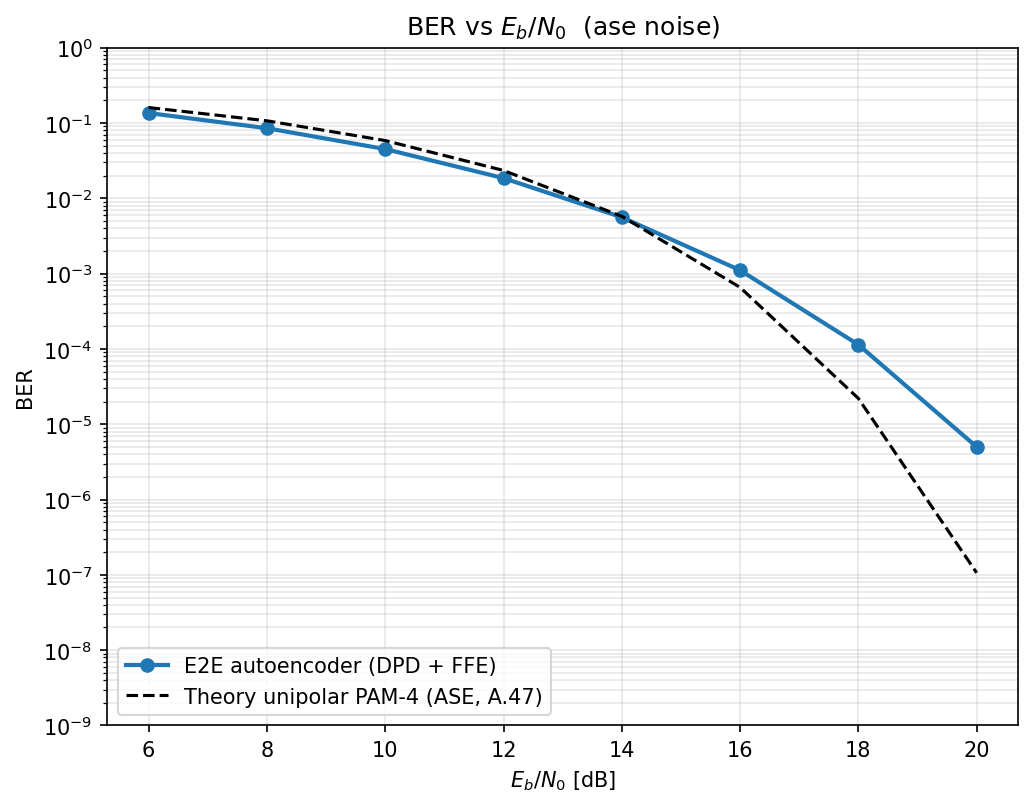
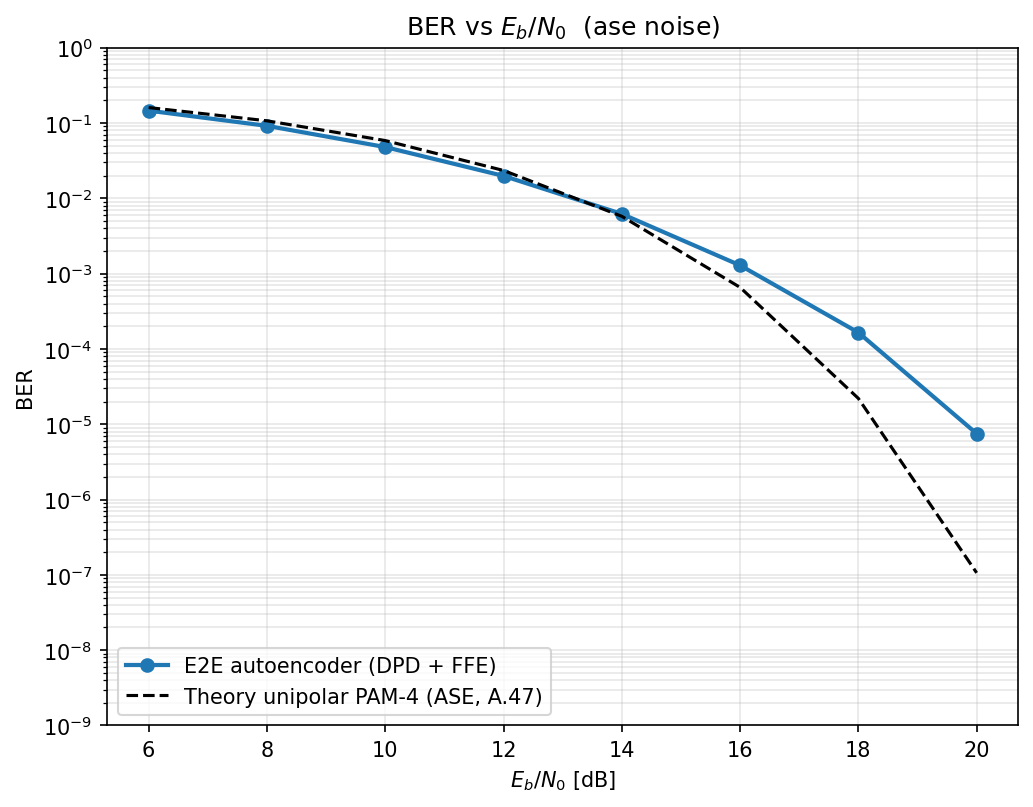
ASE default -> realistic WSS optical filter (the group's actual filter)
Replaced the idealized matched optical filter with the realistic one the group uses in MATLAB
(trans_func.m 'WSS', Finisar WaveShaper, Pulikkaseril 2011): erf-based flat-top, B = 1.6*Rs
(32 GHz passband) and OTF 3-dB = 18 GHz. Added channel filter types "wss" and "supergaussian"
(super-Gaussian, the commented-out 'G' alternative); optical_filter_type "auto" now -> "wss" for
ase, "none" for thermal. "matched" stays available as the A.47 ideal bound.

Result: the realistic WSS is only ~0.5 dB from the matched ideal and ~1 dB from thermal
(7.5e-6 vs 2.5e-6 vs 1.25e-6 @ 20 dB) -- much better than the super-Gaussian, because the WSS is
a tighter flat-top that cuts more ASE while the DPD pre-compensates the in-band clipping. So
"optical ~= thermal" holds even with the real filter. Regenerated the ase checkpoint + figures.

diff --git a/functions/channel.py b/functions/channel.py
@@ -26,6 +26,8 @@ import torch
 import torch.nn as nn
 import torch.nn.functional as F
 
+from scipy.special import erf
+
 from pulse_shaping import root_raised_cosine
 
 
@@ -39,6 +41,43 @@ def lowpass_fir(cutoff_hz, sample_rate, num_taps):
     ideal = normalized_cutoff * np.sinc(normalized_cutoff * n)
     window = np.hamming(num_taps)
     taps = ideal * window
+    taps = taps / np.sum(taps)
+    return taps.astype(np.float32)
+
+
+def supergaussian_fir(bw_3db_hz, order, sample_rate, num_taps):
+    """Super-Gaussian low-pass FIR: H(f) = exp(-0.5*ln2*(f/bw)^(2*order)) (the realistic optical
+    filter shape, as in trans_func.m). order=1 -> Gaussian; high order -> flat-top toward brick-wall.
+    bw_3db_hz is the 3-dB (power) bandwidth. Built by frequency sampling + IFFT, windowed."""
+    if num_taps % 2 == 0:
+        num_taps = num_taps + 1
+    n_fft = 8192
+    freq = np.fft.fftfreq(n_fft, d=1.0 / sample_rate)
+    transfer = np.exp(-0.5 * np.log(2) * (np.abs(freq) / bw_3db_hz) ** (2 * order))
+    impulse = np.fft.fftshift(np.fft.ifft(transfer).real)
+    center = n_fft // 2
+    half = num_taps // 2
+    taps = impulse[center - half:center + half + 1] * np.hamming(num_taps)
+    taps = taps / np.sum(taps)
+    return taps.astype(np.float32)
+
+
+def wss_fir(bandpass_hz, otf_bw_hz, sample_rate, num_taps):
+    """Finisar WaveShaper (WSS) optical bandpass, as in trans_func.m 'WSS' (Pulikkaseril, Opt.Exp.
+    2011): H(f) = 0.5*[erf((B/2 - f)/s) - erf((-B/2 - f)/s)], s = BWotf/(2*sqrt(ln2)). A flat-top
+    passband of full width bandpass_hz with Gaussian-smoothed edges set by the OTF 3-dB otf_bw_hz.
+    Built by frequency sampling + IFFT, windowed."""
+    if num_taps % 2 == 0:
+        num_taps = num_taps + 1
+    n_fft = 8192
+    freq = np.fft.fftfreq(n_fft, d=1.0 / sample_rate)
+    sigma = otf_bw_hz / (2 * np.sqrt(np.log(2)))
+    half_bp = 0.5 * bandpass_hz
+    transfer = 0.5 * (erf((half_bp - freq) / sigma) - erf((-half_bp - freq) / sigma))
+    impulse = np.fft.fftshift(np.fft.ifft(transfer).real)
+    center = n_fft // 2
+    half = num_taps // 2
+    taps = impulse[center - half:center + half + 1] * np.hamming(num_taps)
     taps = taps / np.sum(taps)
     return taps.astype(np.float32)
 
@@ -76,19 +115,26 @@ class OpticalChannel(nn.Module):
 
         # optical bandpass before the PD (only meaningful for a preamplified/ASE receiver). In
         # baseband (carrier at DC) it is a COMPLEX low-pass on the field -> the same real FIR on
-        # each quadrature, before the square law, to suppress out-of-band ASE. Types: "matched"
-        # (RRC matched to the pulse, A.47 optimum), "brickwall" (windowed-sinc at B_o/2), "none".
+        # each quadrature, before the square law, to suppress out-of-band ASE. Types: "wss" (Finisar
+        # WaveShaper, realistic), "supergaussian", "matched" (RRC, A.47 optimum), "brickwall", "none".
         optical_bw = getattr(config, "optical_filter_bandwidth", None)
         optical_type = getattr(config, "optical_filter_type", "auto")
-        if optical_type == "auto":               # ase: matched (preamp RX); thermal: none (no preamp)
-            optical_type = "matched" if config.noise_regime == "ase" else "none"
+        if optical_type == "auto":               # ase: realistic WSS (preamp RX); thermal: none
+            optical_type = "wss" if config.noise_regime == "ase" else "none"
         if optical_type == "none" or optical_bw is None or optical_bw >= config.sim_sample_rate:
             self.optical_filter = None
             self.optical_filter_type = "none"
         else:
-            if optical_type == "matched":
+            if optical_type == "wss":
+                bandpass = getattr(config, "wss_bandpass_factor", 1.6) * config.symbol_rate
+                otf = getattr(config, "wss_otf_bandwidth", 18e9)
+                optical_taps = wss_fir(bandpass, otf, config.sim_sample_rate, optical_filter_taps)
+            elif optical_type == "matched":
                 rrc = root_raised_cosine(config.rrc_rolloff, config.rrc_span_symbols, config.samples_per_symbol_sim)
                 optical_taps = (rrc / rrc.sum()).astype(np.float32)
+            elif optical_type == "supergaussian":
+                order = getattr(config, "optical_filter_order", 1)
+                optical_taps = supergaussian_fir(optical_bw / 2, order, config.sim_sample_rate, optical_filter_taps)
             else:
                 optical_taps = lowpass_fir(optical_bw / 2, config.sim_sample_rate, optical_filter_taps)
             optical_weight = torch.tensor(optical_taps[::-1].copy()).view(1, 1, -1)

diff --git a/functions/config.py b/functions/config.py
@@ -44,11 +44,14 @@ class Config:
         # cutoff B_o/2 on the field (suppresses out-of-band ASE before the square law).
         # 37 GHz ~= R_s*(1+rolloff), matched to the signal optical band. None disables it.
         self.optical_filter_bandwidth = 37e9
-        self.optical_filter_type = "auto"       # AUTO: "matched" for ase (RRC matched to the pulse,
-                                                # A.47 optimum, ~2.5 dB -> ASE ~= thermal) and "none" for
-                                                # thermal (no preamp -> no optical filter; any optical
-                                                # filtering only attenuates the signal there).
-                                                # Force with "matched" / "brickwall" / "none".
+        self.optical_filter_type = "auto"       # AUTO: "wss" for ase (the realistic Finisar WaveShaper the
+                                                # group uses; worse than the ideal "matched"/A.47 bound) and
+                                                # "none" for thermal (no preamp -> no optical filter).
+                                                # Force: "wss" / "supergaussian" / "matched" / "brickwall" / "none".
+        # WSS (Finisar WaveShaper) optical filter parameters (trans_func.m 'WSS')
+        self.wss_bandpass_factor = 1.6          # optical passband full width B = factor * symbol_rate
+        self.wss_otf_bandwidth = 18e9           # OTF 3-dB bandwidth (edge sharpness), fixed at 18 GHz
+        self.optical_filter_order = 4           # super-Gaussian order (only for "supergaussian" type)
 
         # ----- photodiode -----
         self.photodiode_bandwidth = 25e9        # post-detection low-pass bandwidth
@@ -118,7 +121,7 @@ class Config:
         lines.append(f"noise regime         : {self.noise_regime}")
         optical_type = self.optical_filter_type
         if optical_type == "auto":
-            optical_type = "matched" if self.noise_regime == "ase" else "none"
+            optical_type = "wss" if self.noise_regime == "ase" else "none"
         if optical_type == "none" or not self.optical_filter_bandwidth:
             lines.append("optical filter       : none")
         else:
